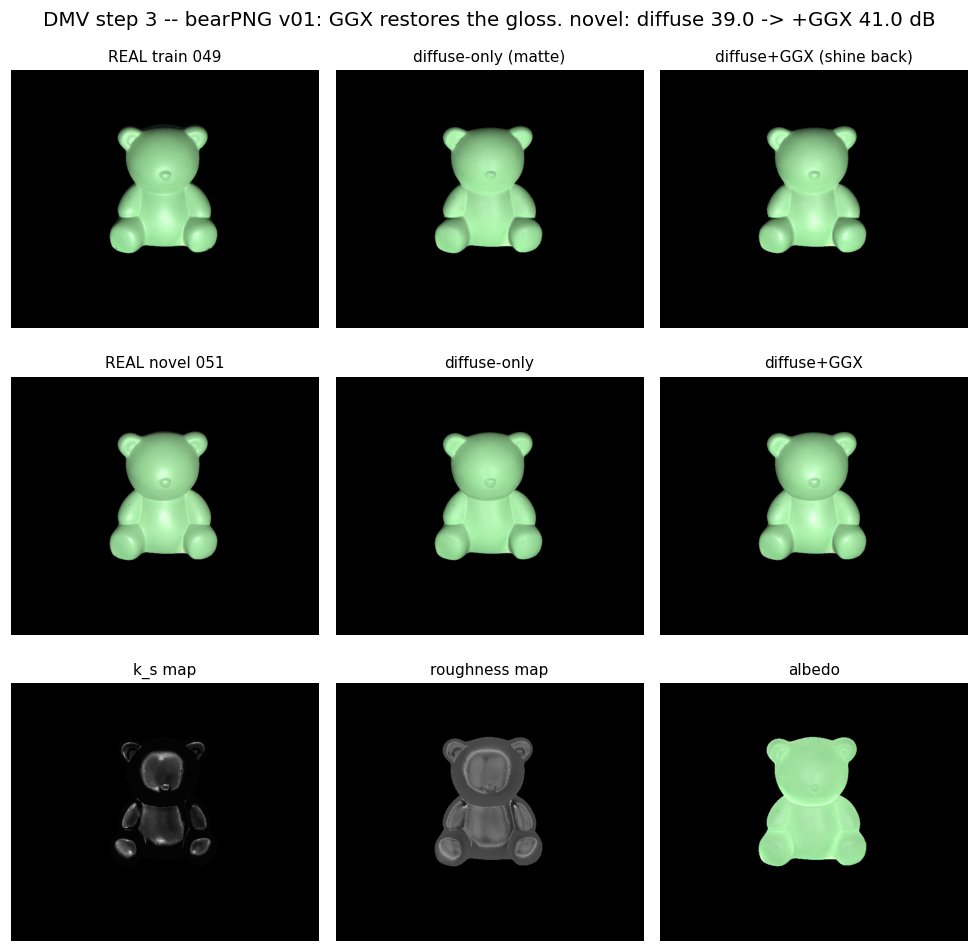
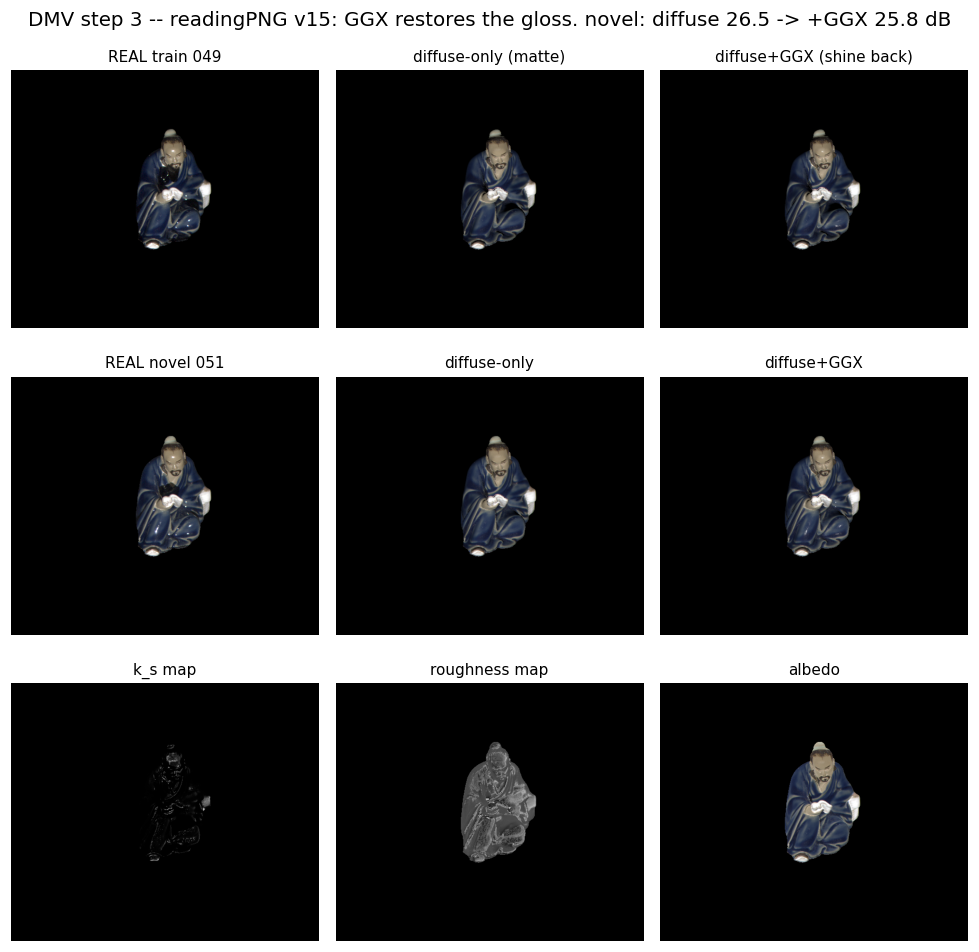
diligent-mv full table: 5 objects x 3 views, mean novel 37.4 dB; cow +5dB from GGX; reading overfits -> motivates material regularization

diff --git a/src/dmv_table.py b/src/dmv_table.py
@@ -1,0 +1,63 @@
+"""DiLiGenT-MV full table -- all 5 objects x several views: diffuse vs +GGX, train/novel PSNR.
+The paper's first real-data result block. Reuses the verified pipeline (median-ratio albedo,
+GGX residual fit, [1,-1,-1] frame, per-light intensity normalization, held-out lights 3..93 step 6).
+Saves table to outputs/diligent/table.txt + a summary bar figure.
+"""
+import os, sys, subprocess, re
+sys.path.insert(0, os.path.dirname(__file__))
+import numpy as np
+import matplotlib; matplotlib.use("Agg"); import matplotlib.pyplot as plt
+from lightgs import viz
+
+SCENES = ["bearPNG", "buddhaPNG", "cowPNG", "pot2PNG", "readingPNG"]
+VIEWS = [1, 8, 15]
+OUT = os.path.join(viz.OUT, "diligent")
+
+
+def main():
+    rows = []
+    for s in SCENES:
+        for v in VIEWS:
+            r = subprocess.run([sys.executable, os.path.join(os.path.dirname(__file__), "dmv_specular.py"),
+                                s, str(v)], capture_output=True, text=True, timeout=1800)
+            txt = r.stdout
+            m_tr = re.search(r"train: diffuse ([\d.]+) dB -> \+GGX ([\d.]+)", txt)
+            m_nv = re.search(r"novel: diffuse ([\d.]+) dB -> \+GGX ([\d.]+)", txt)
+            m_mat = re.search(r"mean k_s ([\d.]+) \| mean roughness ([\d.]+)", txt)
+            if not (m_tr and m_nv):
+                print(f"  {s} v{v:02d}: FAILED\n{txt[-300:]}\n{r.stderr[-200:] if r.stderr else ''}")
+                continue
+            row = (s, v, float(m_tr.group(1)), float(m_tr.group(2)),
+                   float(m_nv.group(1)), float(m_nv.group(2)),
+                   float(m_mat.group(1)), float(m_mat.group(2)))
+            rows.append(row)
+            print(f"  {s:10s} v{v:02d}  train {row[2]:5.1f}->{row[3]:5.1f}  novel {row[4]:5.1f}->{row[5]:5.1f}  "
+                  f"ks {row[6]:.2f} rough {row[7]:.2f}")
+
+    # table file
+    lines = [f"{'scene':12s} {'view':>4s} {'train diff':>10s} {'train +GGX':>10s} {'novel diff':>10s} "
+             f"{'novel +GGX':>10s} {'k_s':>5s} {'rough':>5s}"]
+    for s, v, td, tg, nd, ng, ks, ro in rows:
+        lines.append(f"{s:12s} {v:>4d} {td:>10.1f} {tg:>10.1f} {nd:>10.1f} {ng:>10.1f} {ks:>5.2f} {ro:>5.2f}")
+    arr = np.array([[r[2], r[3], r[4], r[5]] for r in rows])
+    lines.append(f"{'MEAN':12s} {'':>4s} {arr[:,0].mean():>10.1f} {arr[:,1].mean():>10.1f} "
+                 f"{arr[:,2].mean():>10.1f} {arr[:,3].mean():>10.1f}")
+    open(os.path.join(OUT, "table.txt"), "w").write("\n".join(lines))
+    print("\n".join(lines[-2:]))
+
+    # summary figure
+    labels = [f"{r[0][:-3]} v{r[1]}" for r in rows]
+    x = np.arange(len(rows))
+    fig, ax = plt.subplots(figsize=(13, 4.5))
+    ax.bar(x - 0.2, arr[:, 2], width=0.4, label="novel: diffuse")
+    ax.bar(x + 0.2, arr[:, 3], width=0.4, label="novel: diffuse+GGX")
+    ax.set_xticks(x); ax.set_xticklabels(labels, rotation=45, ha="right", fontsize=8)
+    ax.set_ylabel("held-out novel-light PSNR (dB)")
+    ax.set_title("DiLiGenT-MV: real-data relighting of held-out lights (given normals + calibrated lights)")
+    ax.legend(); ax.grid(alpha=0.3, axis="y")
+    fig.tight_layout(); fig.savefig(os.path.join(OUT, "table_summary.png"), dpi=110); plt.close(fig)
+    print(f"-> outputs/diligent/table.txt , table_summary.png")
+
+
+if __name__ == "__main__":
+    main()
